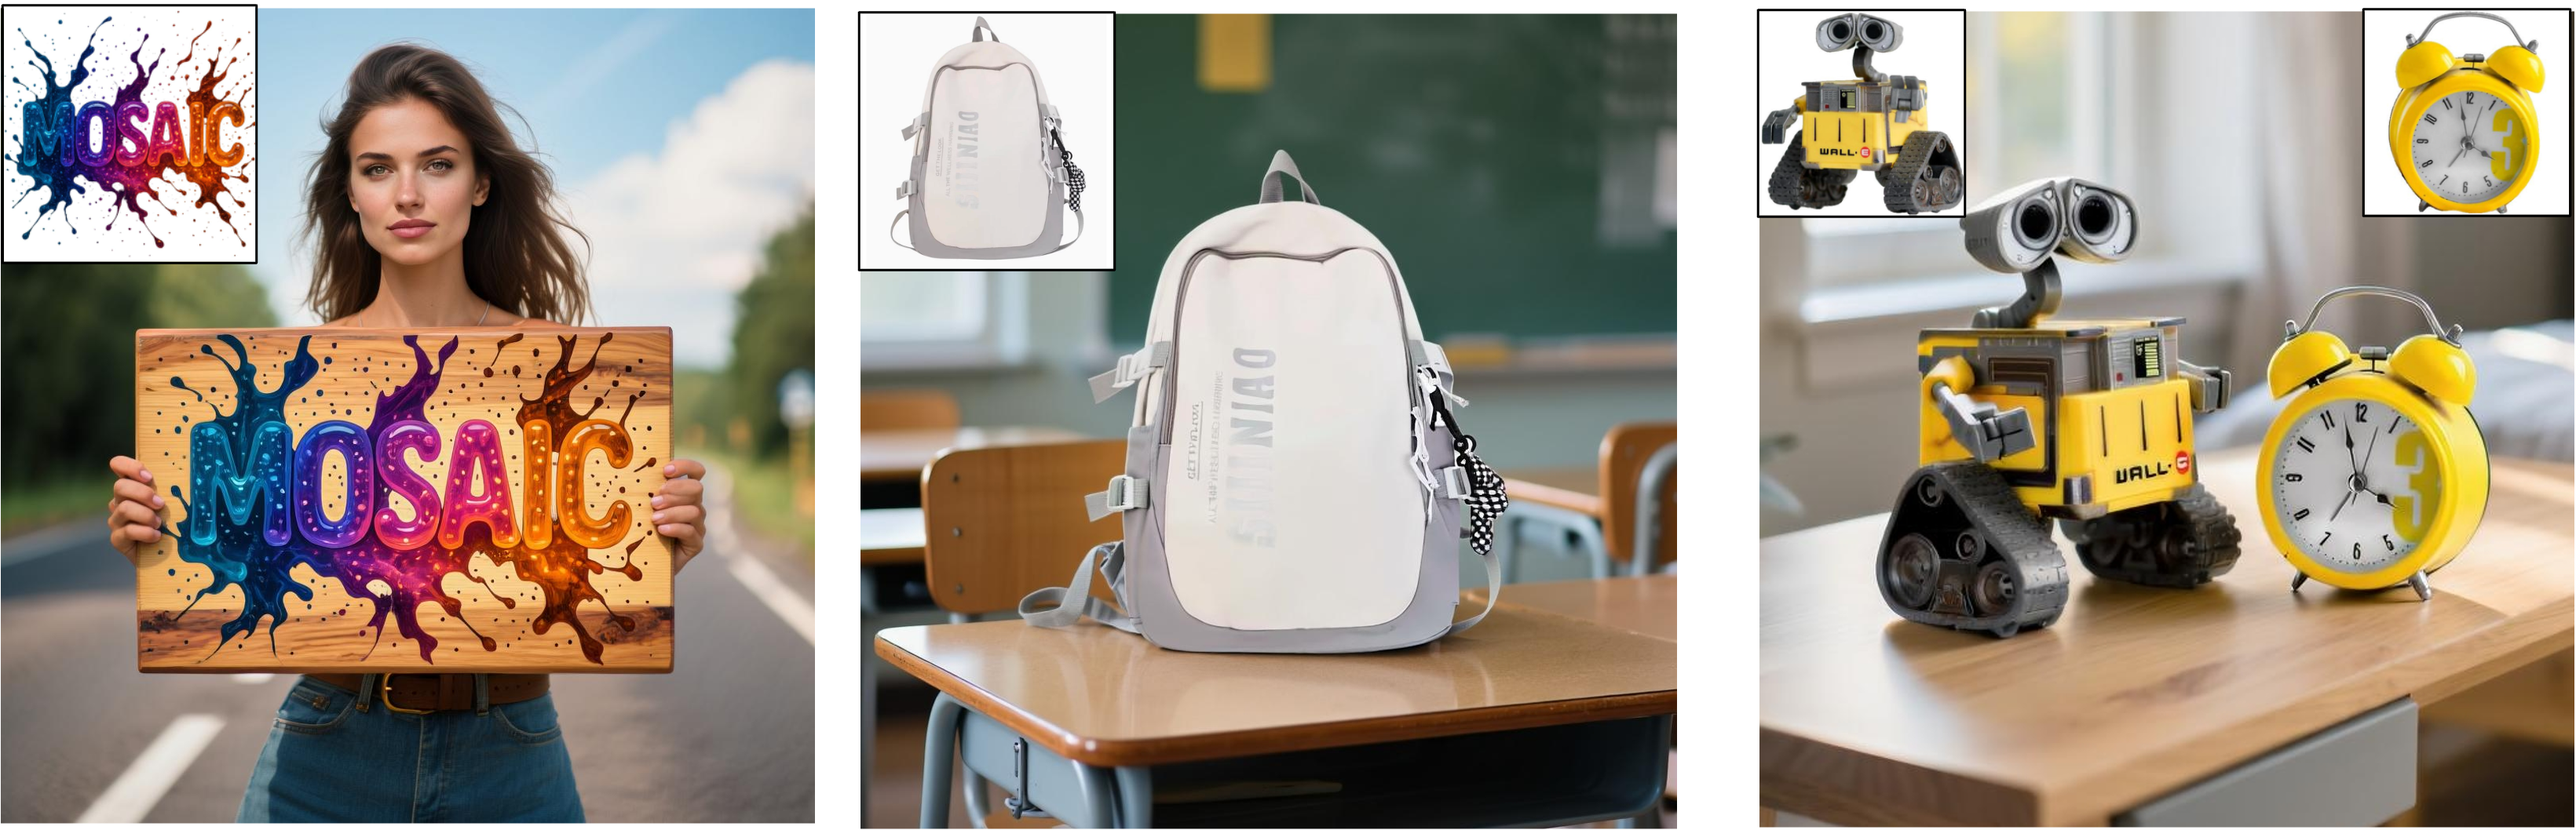
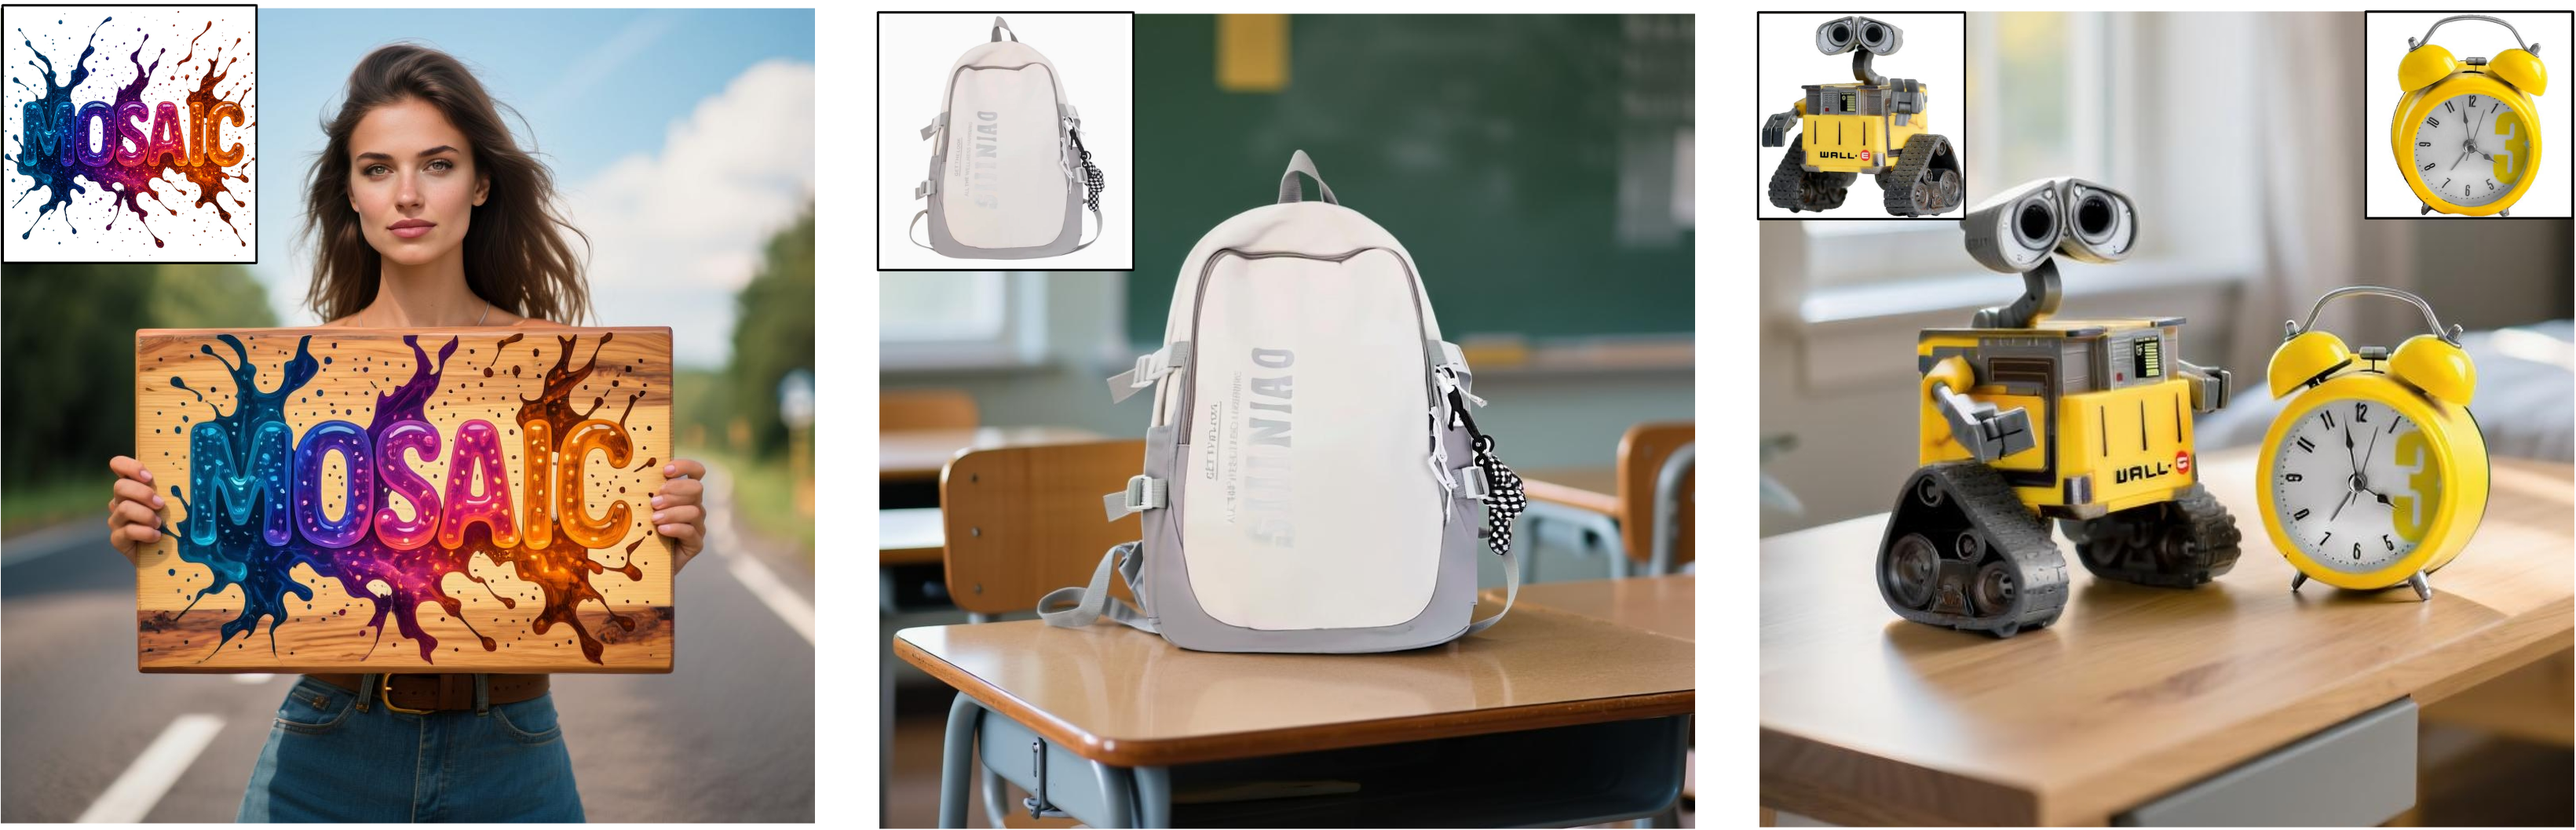
main_page

Changed region(s): [[0.3109, 0.0, 0.7772, 1.0], [0.9016, 0.0, 1.0, 0.2807], [0.0311, 0.0624, 0.0933, 0.2495]]

diff --git a/index.html b/index.html
@@ -311,14 +311,12 @@
         <div class="carousel-teaser-container">
           <div class="carousel-teaser" id="carousel">
             <!-- loop images -->
-          <img src="static/images/more5.png" alt="Image 1">
           <img src="static/images/more4.png" alt="Image 2">
           <img src="static/images/more3.png" alt="Image 3">
           <img src="static/images/more2.png" alt="Image 4">
           <img src="static/images/more1.png" alt="Image 5">
 
             <!-- 再复制一遍 -->
-          <img src="static/images/more5.png" alt="Image 1">
           <img src="static/images/more4.png" alt="Image 2">
           <img src="static/images/more3.png" alt="Image 3">
           <img src="static/images/more2.png" alt="Image 4">
@@ -331,14 +329,12 @@
           <img src="static/images/more2.png" alt="Image 1">
           <img src="static/images/more3.png" alt="Image 2">
           <img src="static/images/more4.png" alt="Image 3">
-          <img src="static/images/more5.png" alt="Image 4">
           <img src="static/images/more1.png" alt="Image 5">
 
             <!-- 再复制一遍 -->
           <img src="static/images/more2.png" alt="Image 1">
           <img src="static/images/more3.png" alt="Image 2">
           <img src="static/images/more4.png" alt="Image 3">
-          <img src="static/images/more5.png" alt="Image 4">
           <img src="static/images/more1.png" alt="Image 5">
           </div>
         </div>
